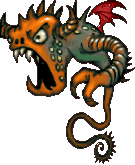
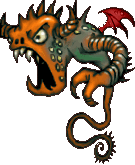
Characters animated

Changed region(s): [[0.6222, 0.0, 1.0, 0.2424]]

diff --git a/Objects/Boss.py b/Objects/Boss.py
@@ -8,15 +8,23 @@ class Boss(RoomObject):
     A class for the game's antagoist
     """
     def __init__(self, room, x, y):
+        # sourcery skip: for-append-to-extend, list-comprehension, remove-zero-from-range
         """
         Initialise the Dragon object
         """
         # include attributes and methods from RoomObject
         RoomObject.__init__(self, room, x, y)
         
+        # set animation values
+        self.frame_rate = 4
+        self.current_frame = 0
+        self.num_frames = 2
+        
         # set image
-        image = self.load_image("Boss.png")
-        self.set_image(image,135,165)
+        self.image_frames = []
+        for index in range(self.num_frames):
+            self.image_frames.append(self.load_image(f"Boss_frames/Boss_{index}.png"))
+        self.update_image()
         
         # set inital movement
         self.y_speed = random.choice((-10,10))
@@ -29,6 +37,15 @@ class Boss(RoomObject):
         baby_spawn_time = random.randint(Globals.baby_min_spawn,Globals.baby_max_spawn)
         self.set_timer(baby_spawn_time,self.spawn_baby)
         
+    
+    def update_image(self):
+        """
+        Animates the Boss by updating the image 
+        """
+        self.current_frame = (self.current_frame + 1) % self.num_frames
+        self.set_image(self.image_frames[self.current_frame],135,165)
+        self.set_timer(self.frame_rate,self.update_image)
+    
         
     def step(self):
         """
@@ -58,6 +75,7 @@ class Boss(RoomObject):
         # reset time fro next demon spawn
         demon_spawn_time = random.randint(Globals.demon_min_spawn,Globals.demon_max_spawn)
         self.set_timer(demon_spawn_time, self.spawn_demon)
+
         
     def spawn_baby(self):
         """

diff --git a/Objects/Dragon.py b/Objects/Dragon.py
@@ -10,15 +10,23 @@ class Dragon(RoomObject):
     """
     
     def __init__(self, room, x, y):
+        # sourcery skip: for-append-to-extend, list-comprehension, remove-zero-from-range
         """
         Initialise the Dragon object
         """
         # include attributes and methods from RoomObject
         RoomObject.__init__(self,room, x, y)
         
+        # set animation values
+        self.frame_rate = 6
+        self.current_frame = 0
+        self.num_frames = 2
+                
         # set image
-        image = self.load_image("Dragon.png")
-        self.set_image(image,135,150)
+        self.image_frames = []
+        for index in range(self.num_frames):
+            self.image_frames.append(self.load_image(f"Dragon_frames/Dragon_{index}.png"))        
+        self.update_image()
         
         # register events
         self.handle_key_events = True
@@ -41,6 +49,15 @@ class Dragon(RoomObject):
         elif key[pygame.K_SPACE]:
             self.shoot_fireball()
                 
+    
+    def update_image(self):
+        """
+        Animates the Dragon by changing the image per the frame rate
+        """
+        self.current_frame = (self.current_frame + 1) % self.num_frames
+        self.set_image(self.image_frames[self.current_frame],135,150)
+        self.set_timer(self.frame_rate,self.update_image)
+    
     
     def step(self):
         """

diff --git a/Objects/Demon.py b/Objects/Demon.py
@@ -6,16 +6,23 @@ class Demon(RoomObject):
     A class for the game's evil minons
     """
     
-    def __init__(self, room, x, y):
+    def __init__(self, room, x, y):  
         """
         Initialise the Demon object
         """
         # include attributes and methods from RoomObject
         RoomObject.__init__(self,room, x, y)
         
+        # set animation values
+        self.frame_rate = 3
+        self.current_frame = 0
+        self.num_frames = 2
+        
         # set image
-        image = self.load_image("Demon.png")
-        self.set_image(image,130,115)
+        self.image_frames = []
+        for index in range(self.num_frames):
+            self.image_frames.append(self.load_image(f"Demon_frames\Demon_{index}.png"))        
+        self.update_image()
         
         # set travel direction
         angle = random.randint(135,225)
@@ -24,6 +31,15 @@ class Demon(RoomObject):
         # register events
         self.register_collision_object("Dragon")
         
+    
+    def update_image(self):
+        """
+        Animates the Demon by changing the image as per frame rate
+        """
+        self.current_frame = (self.current_frame + 1) % self.num_frames
+        self.set_image(self.image_frames[self.current_frame],130,115)
+        self.set_timer(self.frame_rate, self.update_image)
+    
            
     def step(self):
         """

diff --git a/Objects/Baby.py b/Objects/Baby.py
@@ -7,15 +7,23 @@ class Baby(RoomObject):
     """
     
     def __init__(self,room,x,y):
+        # sourcery skip: for-append-to-extend, list-comprehension, remove-zero-from-range
         """
         Initialise the baby instance
         """
         # include attirbutes and method from RoomObject
         RoomObject.__init__(self,room,x,y)
         
+        # set animation values
+        self.frame_rate = 2
+        self.current_frame = 0
+        self.num_frames = 2
+        
         # set image
-        image = self.load_image("Baby.png")
-        self.set_image(image, 53, 55)
+        self.image_fames = []
+        for index in range(self.frame_rate):
+            self.image_fames.append(self.load_image(f"Baby_frames/Baby_{index}.png"))
+        self.update_image()
         
         # set travel direction
         self.set_direction(180, Globals.baby_speed)
@@ -33,3 +41,12 @@ class Baby(RoomObject):
         if other_type == "Dragon":
             self.room.score.update_score(50)
             self.room.delete_object(self)
+            
+    
+    def update_image(self):
+        """
+        Animates the Baby by chnaging the image per frame rate
+        """
+        self.current_frame = (self.current_frame + 1) % self.num_frames
+        self.set_image(self.image_fames[self.current_frame], 53, 55)
+        self.set_timer(self.frame_rate,self.update_image)

diff --git a/Objects/Ui.py b/Objects/Ui.py
@@ -33,13 +33,18 @@ class Score(TextObject):
 class Lives(RoomObject):
     
     def __init__(self, room, x: int, y: int):
+        # sourcery skip: for-append-to-extend, list-comprehension, remove-zero-from-range
         RoomObject.__init__(self, room, x, y)
         
         # set image
-        image = self.load_image(f"Lives_frames/Lives_{Globals.LIVES}.png")
-        self.set_image(image, 125, 23)
+        self.lives_icon = []
+        for index in range(0,6):
+            self.lives_icon.append(self.load_image(f"Lives_frames/Lives_{index}.png"))
+        self.update_image()
         
         
     def update_image(self):
-        image = self.load_image(f"Lives_frames/Lives_{Globals.LIVES}.png")
-        self.set_image(image, 125, 23)
+        """
+        Updates the number of lives on the UI
+        """
+        self.set_image(self.lives_icon[Globals.LIVES], 125, 23)

diff --git a/Rooms/GamePlay.py b/Rooms/GamePlay.py
@@ -1,7 +1,7 @@
 from GameFrame import Level, Globals
 from Objects.Dragon import Dragon
 from Objects.Boss import Boss
-from Objects.Hud import Score, Lives
+from Objects.Ui import Score, Lives
 
 class GamePlay(Level):
     def __init__(self, screen, joysticks):

diff --git a/Objects/__init__.py b/Objects/__init__.py
@@ -5,4 +5,4 @@ from Objects.Boss import Boss
 from Objects.Demon import Demon
 from Objects.Fireball import Fireball
 from Objects.Baby import Baby
-from Objects.Hud import Score, Lives
+from Objects.Ui import Score, Lives
